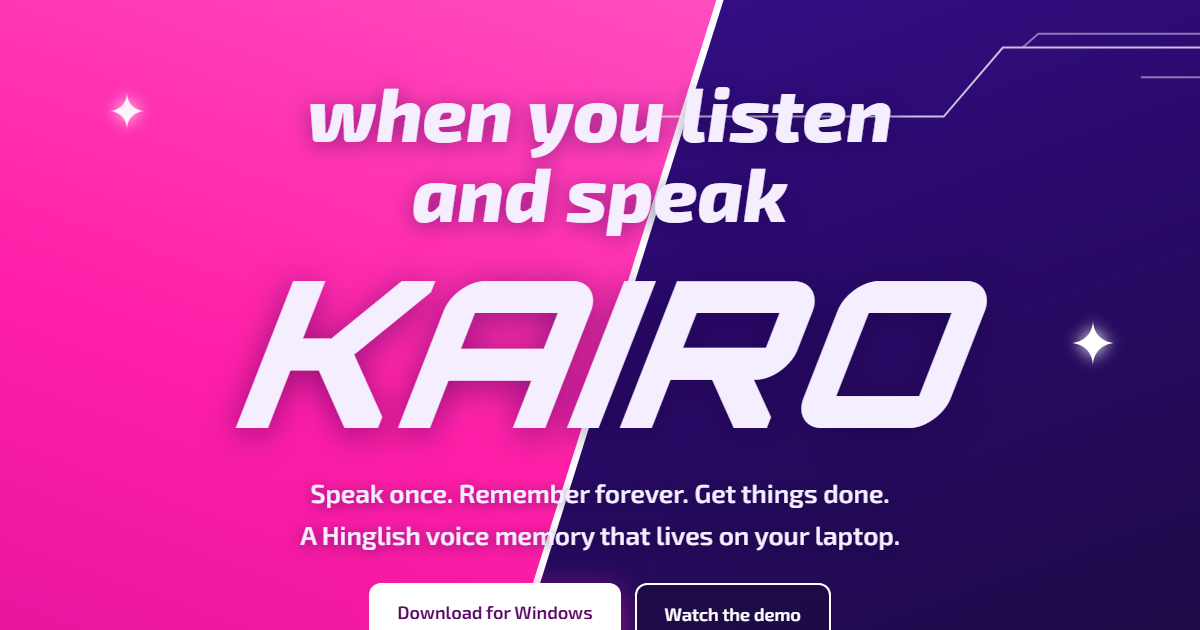
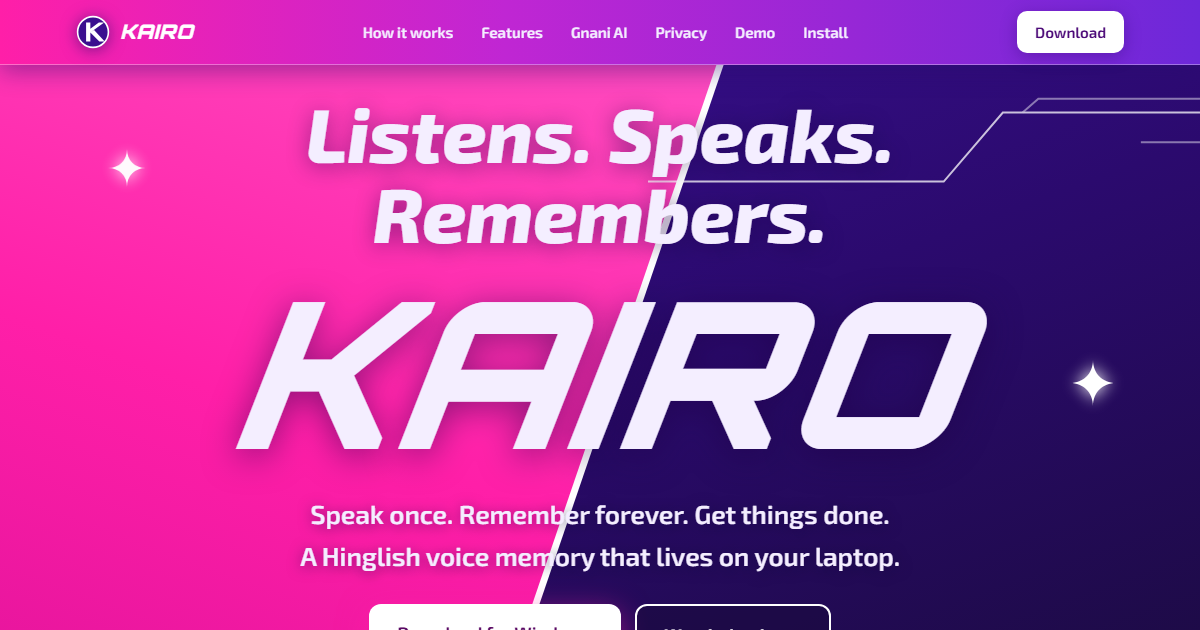
Landing page: gradient navbar, tighter hero and new headline

diff --git a/docs/index.html b/docs/index.html
@@ -5,7 +5,7 @@
 <meta name="viewport" content="width=device-width, initial-scale=1">
 <title>KAIRO - Hinglish voice memory</title>
 <meta name="description" content="Speak once. Remember forever. Get things done. A Hinglish voice memory for Indian students, built on Gnani AI's Prisma and Timbre.">
-<meta property="og:title" content="KAIRO - when you listen and speak">
+<meta property="og:title" content="KAIRO - Listens. Speaks. Remembers.">
 <meta property="og:description" content="A Hinglish voice memory that runs on your laptop. Built on Gnani AI's Prisma and Timbre.">
 <meta property="og:type" content="website">
 <meta property="og:image" content="og.png">
@@ -40,11 +40,54 @@
   a { color: var(--link); }
   .wrap { max-width: 1080px; margin: 0 auto; padding: 0 16px; }
 
+  /* ---------- navbar ---------- */
+  .skip { position: absolute; left: -999px; top: 8px; background: #fff; color: #5a0a64; padding: 8px 14px; border-radius: 8px; font-weight: 700; z-index: 100; }
+  .skip:focus { left: 8px; }
+  .nav {
+    position: sticky; top: 0; z-index: 50;
+    background: linear-gradient(90deg, #ff1fa8 0%, #c026d3 42%, #6d28d9 100%);
+    border-bottom: 1px solid rgba(255, 255, 255, .35);
+    box-shadow: 0 6px 24px rgba(43, 10, 110, .45);
+  }
+  .nav .bar { display: flex; align-items: center; justify-content: space-between; gap: 16px; height: 64px; }
+  .logo {
+    display: flex; align-items: center; gap: 10px; text-decoration: none; color: #fff;
+    font-family: Orbitron, sans-serif; font-weight: 900; font-style: italic; letter-spacing: .04em; font-size: 20px;
+  }
+  .logo svg { width: 34px; height: 34px; filter: drop-shadow(0 2px 8px rgba(43, 10, 110, .6)); }
+  .links { display: flex; gap: 4px; list-style: none; margin: 0; padding: 0; }
+  .links a, .panel a {
+    display: block; padding: 8px 12px; border-radius: 8px; color: var(--text); text-decoration: none; font-weight: 600; font-size: 15px;
+  }
+  .links a:hover, .links a:focus-visible, .panel a:hover, .panel a:focus-visible { background: rgba(255, 255, 255, .12); outline: none; }
+  .nav-right { display: flex; align-items: center; gap: 10px; }
+  .dl {
+    text-decoration: none; font-weight: 800; font-size: 15px; color: #4c0a78; padding: 9px 18px; border-radius: 10px;
+    background: #fff; box-shadow: 0 4px 16px rgba(43, 10, 110, .35);
+    transition: transform .15s;
+  }
+  .dl:hover { transform: translateY(-1px); }
+  .dl:focus-visible { outline: 3px solid #fff; outline-offset: 2px; }
+  .menu { display: none; position: relative; }
+  .menu summary { list-style: none; cursor: pointer; width: 42px; height: 42px; display: grid; place-content: center; gap: 5px; border-radius: 10px; border: 1px solid var(--line); }
+  .menu summary::-webkit-details-marker { display: none; }
+  .menu summary span { display: block; width: 20px; height: 2px; background: #fff; border-radius: 2px; }
+  .menu summary:focus-visible { outline: 3px solid #fff; outline-offset: 2px; }
+  .panel {
+    position: absolute; right: 0; top: 52px; width: 220px; list-style: none; margin: 0; padding: 8px;
+    background: linear-gradient(160deg, #7c1fd1, #4a14a8); border: 1px solid rgba(255, 255, 255, .35); border-radius: 14px; box-shadow: 0 16px 40px rgba(43, 10, 110, .55);
+  }
+  section, header.hero { scroll-margin-top: 64px; }
+  @media (max-width: 860px) {
+    .links { display: none; }
+    .menu { display: block; }
+  }
+
   /* ---------- hero: diagonal pink / violet split ---------- */
   .hero {
     position: relative;
     overflow: hidden;
-    min-height: min(92vh, 860px);
+    min-height: min(84vh, 740px);
     display: flex;
     align-items: center;
     background: linear-gradient(160deg, #3b1196 0%, var(--violet) 45%, var(--violet-2) 100%);
@@ -69,7 +112,7 @@
   @keyframes twinkle { 0%, 100% { opacity: 1; transform: scale(1); } 50% { opacity: .35; transform: scale(.7); } }
   @media (prefers-reduced-motion: reduce) { .sparkle { animation: none; } html { scroll-behavior: auto; } }
 
-  .hero-inner { position: relative; text-align: center; padding-block: 72px 64px; width: 100%; }
+  .hero-inner { position: relative; text-align: center; padding-block: 28px 48px; width: 100%; }
   .kicker {
     font-style: italic; font-weight: 800;
     font-size: clamp(30px, 6.6vw, 76px);
@@ -131,7 +174,7 @@
 
   @media (max-width: 560px) {
     body { font-size: 16px; }
-    .hero-inner { padding-block: 56px 48px; }
+    .hero-inner { padding-block: 32px 44px; }
     .s2 { display: none; }
     .brand { font-size: 17vw; letter-spacing: 0; transform: skewX(-6deg); }
     .tagline br { display: none; }
@@ -144,7 +187,39 @@
 </head>
 <body>
 
-<header class="hero">
+<a class="skip" href="#how">Skip to content</a>
+<nav class="nav" aria-label="Main">
+  <div class="wrap bar">
+    <a class="logo" href="#top" aria-label="KAIRO home">
+      <svg viewBox="0 0 64 64" aria-hidden="true"><circle cx="32" cy="32" r="29" fill="#3b0f8f" stroke="#fff" stroke-width="3"/><path fill="#fff" d="M19 14h8v36h-8zM27 33v-7l16-12h10zM27 33l7-5 20 22H44z"/></svg>
+      KAIRO
+    </a>
+    <ul class="links">
+      <li><a href="#how">How it works</a></li>
+      <li><a href="#features">Features</a></li>
+      <li><a href="#powered">Gnani AI</a></li>
+      <li><a href="#privacy">Privacy</a></li>
+      <li><a href="#demo">Demo</a></li>
+      <li><a href="#install">Install</a></li>
+    </ul>
+    <div class="nav-right">
+      <a class="dl" href="https://github.com/dolliecoder/KAIRO/releases/latest">Download</a>
+      <details class="menu">
+        <summary aria-label="Open menu"><span></span><span></span><span></span></summary>
+        <ul class="panel">
+          <li><a href="#how">How it works</a></li>
+          <li><a href="#features">Features</a></li>
+          <li><a href="#powered">Gnani AI</a></li>
+          <li><a href="#privacy">Privacy</a></li>
+          <li><a href="#demo">Demo</a></li>
+          <li><a href="#install">Install</a></li>
+        </ul>
+      </details>
+    </div>
+  </div>
+</nav>
+
+<header class="hero" id="top">
   <div class="pink"></div><div class="edge"></div>
   <svg class="tech tr" viewBox="0 0 560 120" fill="none" stroke="#fff" stroke-width="2" aria-hidden="true"><path d="M0 100h300l60-70h200"/><path d="M380 30l16-14h164" opacity=".6"/><path d="M500 60h60" opacity=".6"/></svg>
   <svg class="tech bl" viewBox="0 0 560 120" fill="none" stroke="#fff" stroke-width="2" aria-hidden="true"><path d="M0 100h300l60-70h200"/><path d="M380 30l16-14h164" opacity=".6"/></svg>
@@ -153,7 +228,7 @@
   <svg class="sparkle s3" viewBox="0 0 24 24" aria-hidden="true"><path d="M12 0C12 7 17 12 24 12 17 12 12 17 12 24 12 17 7 12 0 12 7 12 12 7 12 0Z"/></svg>
 
   <div class="wrap hero-inner">
-    <p class="kicker">when you listen<br>and speak</p>
+    <p class="kicker">Listens. Speaks.<br>Remembers.</p>
     <h1 class="brand">KAIRO</h1>
     <p class="tagline">Speak once. Remember forever. Get things done. <br>A Hinglish voice memory that lives on your laptop.</p>
     <div class="cta">
